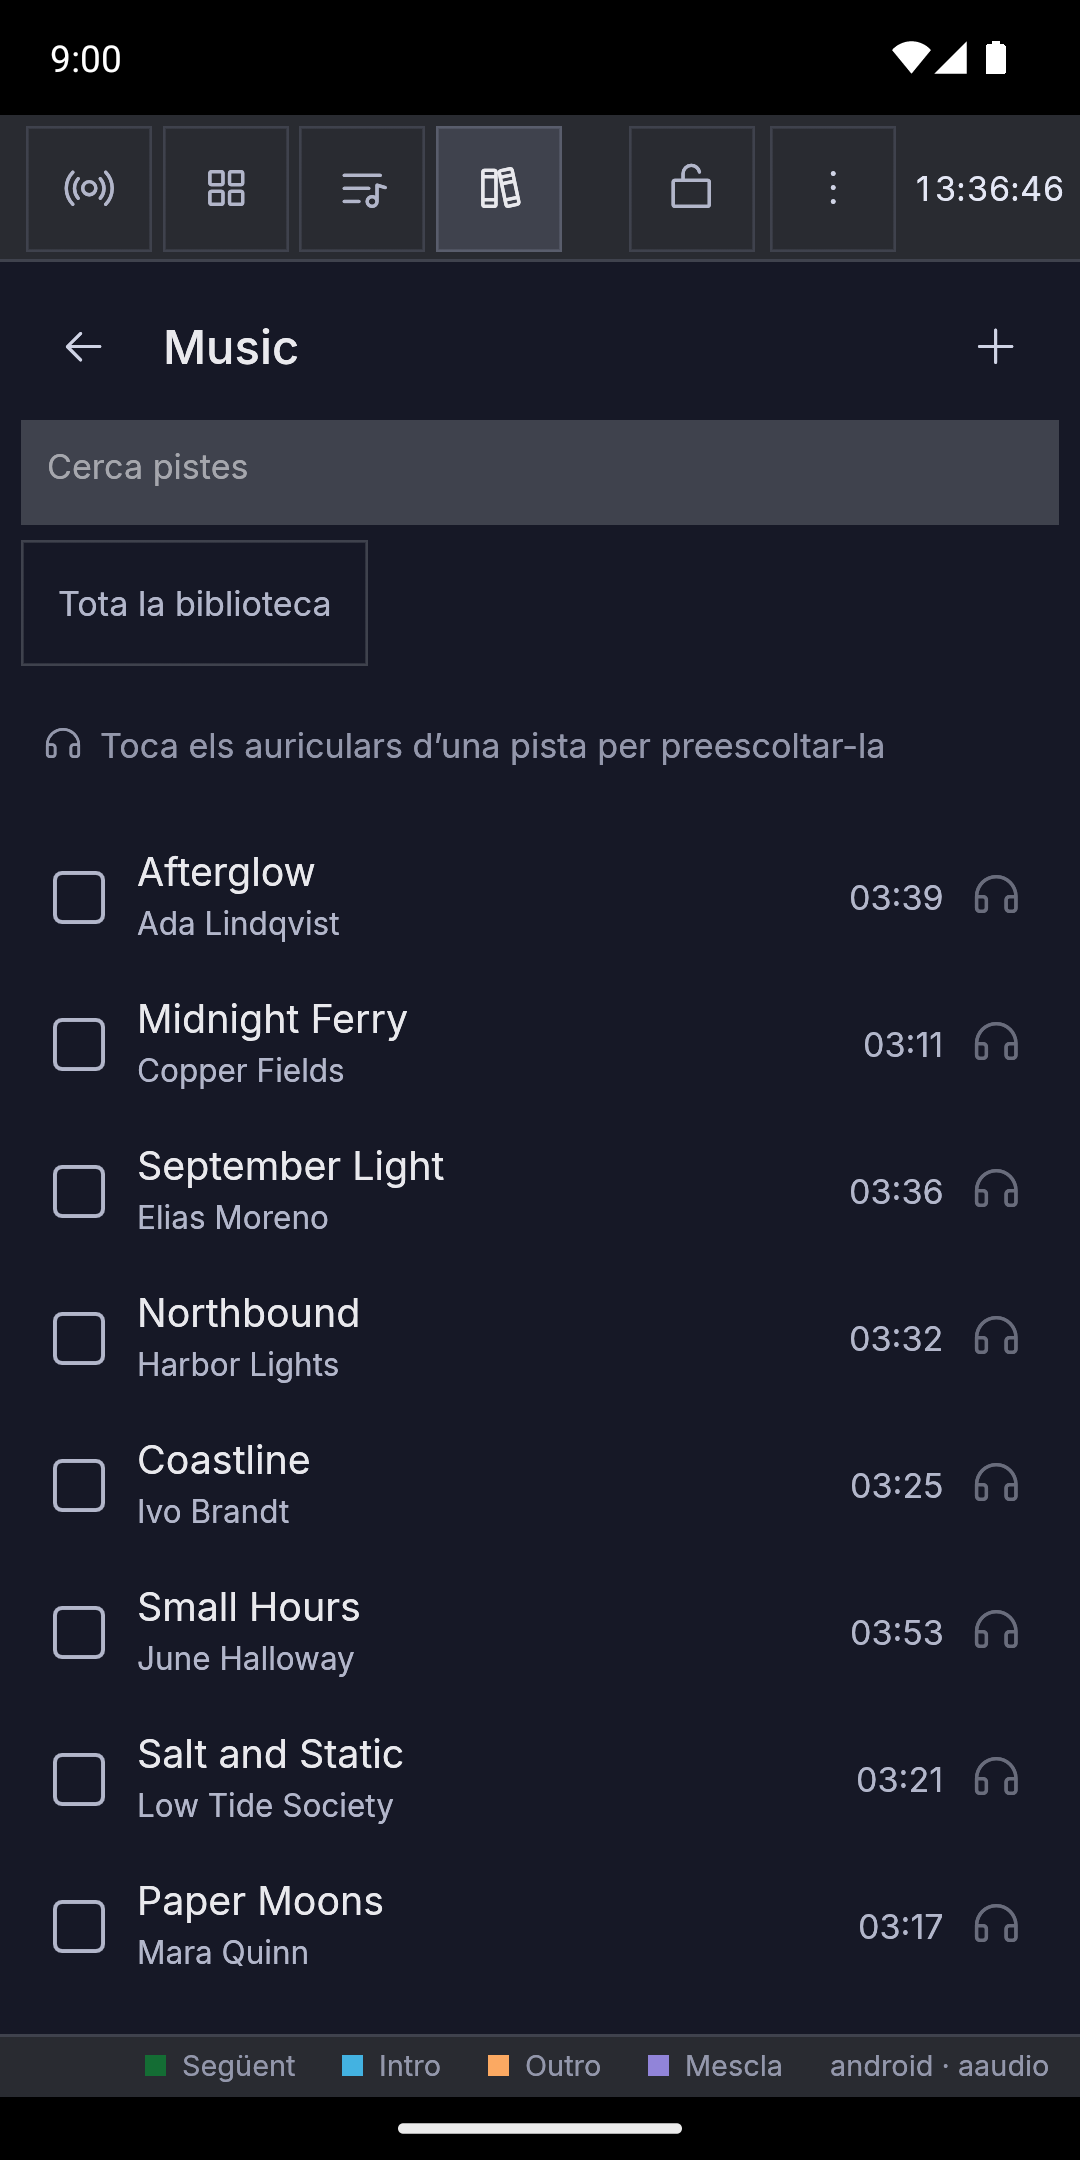
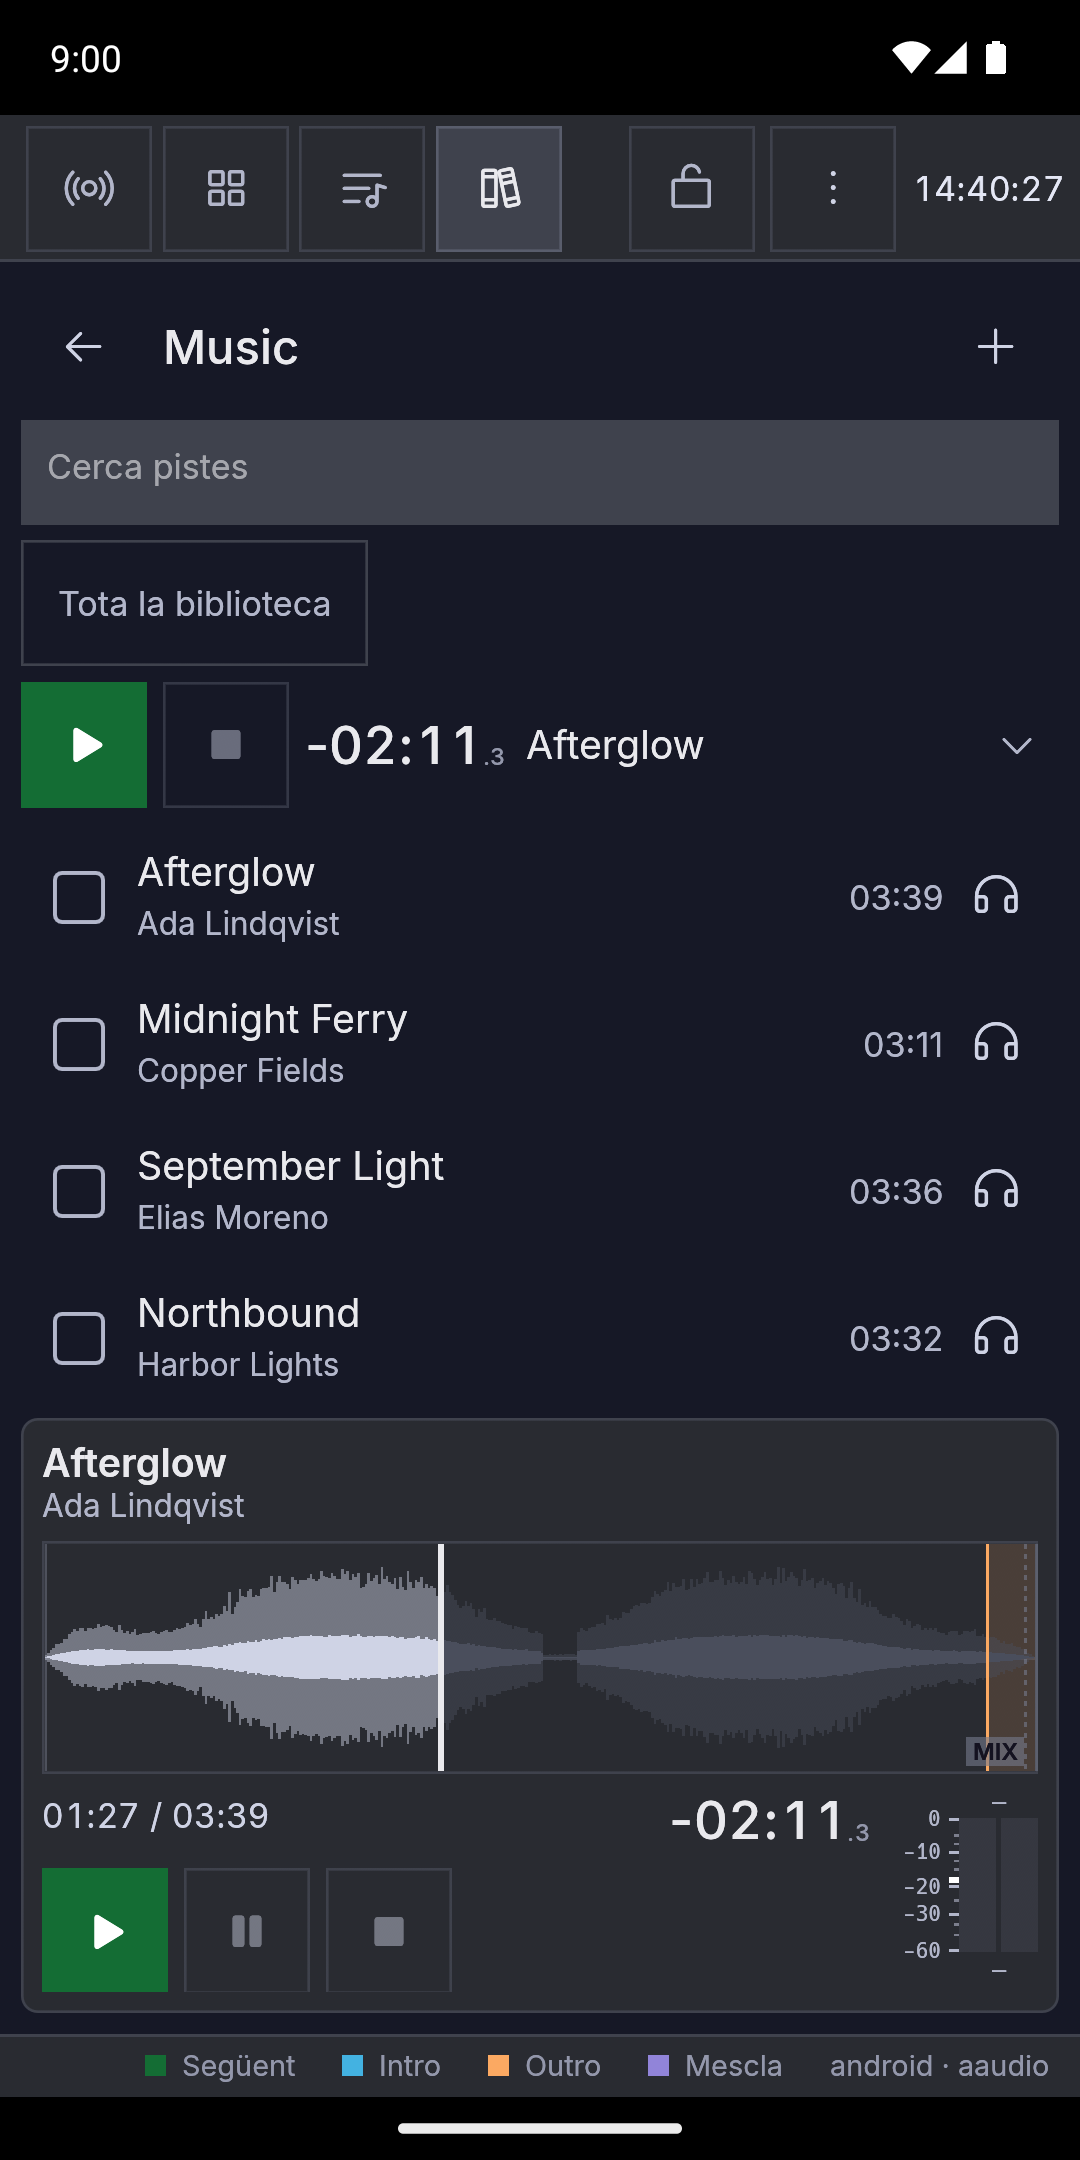
docs(user): the phone's pre-listen card, with its Play screenshot
The Library screenshot now shows the card, stopped on a set start so
nothing in it moves. The screenshot run turns on the library's default
output, as a phone has it (LB46), so the 🎧 picks a track.

diff --git a/docs/technical/ui.md b/docs/technical/ui.md
@@ -36,7 +36,7 @@
 | `ui/shell.rs` | Panic isolation around each frame, and the close check in `Shell::logic` |
 | `ui/exit_guard.rs` | The "Audio is on air" modal: the `ExitIntent`, the list of what is sounding, and the stop commands |
 | `ui/view.rs`, `ui/format.rs` | Pure view model: what to show, how to format it (unit-tested). `mix_active` decides whether a player's MIX marker (on the player and in its CUE window) is lit (violet, `theme::MIX_LINE` through `widgets::mix_marker_color`, the colour of the MIXING badge and apart from the orange outro; dim grey otherwise): Continuous mode and not a bit-perfect player (BR15) |
-| `ui/phone_library.rs`, `ui/music.rs` | The phone's Library tab (track library spec §11.1 and §11.2, plans 6 and 7; see [Mobile](mobile.md)) and its Device music page, the phone's music screen (phone layout spec §9) |
+| `ui/phone_library.rs`, `ui/phone_prelisten.rs`, `ui/music.rs` | The phone's Library tab (track library spec §11.1 to §11.3, plans 6, 7 and 9; see [Mobile](mobile.md)), its pre-listen card (the waveform panel on the library CUE's track, LB54–LB57) and its Device music page, the phone's music screen (phone layout spec §9) |
 | `ui/library/preview.rs` | The library window's preview bar (library spec §8; plan 4): `follow_selection` sends `SelectLibraryCue` when the last selected row changes (`LibraryUi::preview_sent`), and `preview_bar` draws Play, Pause and Stop (`TransportAction`), the big remaining time, the title, artist and category, a column with `widgets::vu_compact` fed by `Telemetry.library_cue`, the waveform through `wave_panel` with `WaveKey::Library` (a click seeks through `SeekLibraryCue`; markers and Loudness… as on a CUE window), and the `elapsed / total` line. It reads the pure `view::library_cue_view`. Without a route the transport is dimmed with the reason as its tooltip and the meter's place takes a line with a link that sets `ViewState::open_outputs` (Settings opens on Audio outputs, scrolled to the Library row). Not drawn on a phone |
 | `ui/cue_window.rs` | One non-modal `egui::Window` per running CUE, drawn from the pure `view::cue_window_view`; its waveform is `wave_panel` with `WaveKey::Cue`; icons through `ui/glyphs.rs` |
 | `ui/widgets.rs`, `ui/glyphs.rs`, `ui/icons.rs`, `ui/theme.rs` | Painted widgets (tiles: `tile` paints `TileStyle::hover_border` and `hover_fill` while the pointer is over it or pressing it (`TileStyle::plain`: `NEUTRAL_800` fill, `NEUTRAL_500` border), and draws a `theme::FOCUS_RING` outline (inside its border) while it has keyboard focus; `tile` shows its label as the tooltip, so a caller with another tooltip uses `tile_without_tooltip` and never adds a second `on_hover_text`; the design's on/off `toggle` that Settings and the loudness controls share, segmented control, tabular times, meter, fader, waveform; `fader` takes an `enabled` flag: a disabled fader is greyed and senses hover only, so it takes no drag, click or wheel. The curve is `fp_model::volume` (`dB = 192 × (travel^(1/8) − 1)`; `travel_to_db`, `db_to_travel`, `gain_from_fader`, `fader_from_gain`), shared by the fader, MIDI and the remote API. A drag moves the travel by the pointer's movement since the previous frame (kept in egui temp memory from the press origin, so it never jumps to the pointer and a click alone sends nothing); Ctrl or Shift scale drag and wheel by `FADER_FINE` (0.1); the wheel is one `FADER_WHEEL_STEP` (0.025 of travel, 0.6 dB near 0 dB) per notch: `Line` deltas count as notches, `Point` deltas (trackpads) as notches of `line_scroll_speed` points, and the remainder is kept (`FaderWheel`, egui temp memory); a sideways delta counts only with Shift held (some systems send Shift + wheel that way), and while the fader is hovered it clears `smooth_scroll_delta`, so the players' row never scrolls under it. A drag that goes on with no stored state (through a lock) starts from the fader's own position, and the state is dropped when the drag ends or the fader locks. While the knob is held the fader draws the drag's travel, not the model's: the hand on the fader wins over a MIDI or remote change, which the next drag starts from. A double click sends travel 1.0 only on the knob (`FADER_KNOB_SLOP`, 6 px above or below), so two quick taps elsewhere on the track change nothing. The scale marks `FADER_MARKS_DB` (0, −2, −4, −6, −8, −10, −12, −15, −20, −25, −30, −40, −50, −∞) are drawn as a notch across the track (`FADER_NOTCH_REACH` each side) with the level on its right, away from the meter's own scale (the track sits at the fader's left, next to the meter; `FADER_WIDTH` is 30 px), at the travels `fader_mark_travels` computes through the curve, dimmed when locked), drawn icons, the Nocturne theme. `ui/glyphs.rs` maps each transport action (`TransportAction`: play, next, pause, stop, fade stop, stop after, restart, previous, cue) to a Phosphor glyph or a drawn icon; the player, the cartwall and the playlist menu draw their transport icons only through it (`tests/it/glyphs.rs` guards that), and the CUE window too. The meter's geometry is the pure `meter_layout` (a `Ruler` per side, the `ticks`, the label lines, the bars and the readouts), unit-tested; its width (`meter_width`) follows the scale's widest label, and the player's meter column follows it. Nothing is painted over the bars: `tests/it/meter_view.rs` reads the painted shapes and accepts in a bar only filled rects in the bar or zone colours |

diff --git a/docs/user/android.md b/docs/user/android.md
@@ -45,7 +45,7 @@ the status bar at the bottom shows only when it has something to say.
 <img src="../images/android/2-carts.png" width="180" alt="Carts on a phone: the General page turned upright, two carts per row">
 <img src="../images/android/3-playlists.png" width="180" alt="Playlists on a phone: the P1 to P4 chips, the playlist tabs, the track list and the player's card at the bottom">
 <img src="../images/android/4-music.png" width="180" alt="Device music on a phone: the Demo folder with three songs ticked and the bar to add them to P1's Morning playlist">
-<img src="../images/android/5-library.png" width="180" alt="The Library tab on a phone: the Music category's tracks, each with a box to tick and headphones to pre-listen, under the search and Whole library">
+<img src="../images/android/5-library.png" width="180" alt="The Library tab on a phone: the Music category's tracks, each with a box to tick and headphones to pre-listen, and under them the pre-listen card with the track's waveform and markers">
 </p>
 
 - *Live:* every player as a card, and the cartwall. Each card has, top
@@ -167,6 +167,27 @@ that track. A slim strip over the list shows the title, the time left,
 hint otherwise: it always keeps its place, so the rows do not move when a
 pre-listen starts or stops. The 🎧
 is dimmed when the file is missing or cannot be played.
+
+**The pre-listen card.** Tap the strip (away from its buttons) to open
+the card under the list, with the track's waveform as on a player's card
+in Playlists; the arrow at the strip's right shows whether it is open.
+Tap the strip again, or press Back, to close it; the pre-listen goes on.
+On the card:
+
+- a tap on the waveform jumps there, or, while stopped, sets where
+  **Play** starts;
+- a long press sets a marker at that point (cue in, intro end, outro
+  start, MIX, cue out) or removes one you set. Markers belong to the
+  track, so the change shows in every playlist and on the desktop;
+- a pinch zooms, a drag moves a zoomed view and **Full view** shows the
+  whole track again;
+- under the waveform are the times, **Play**, **Pause**, **Stop** and the
+  meter.
+
+The list stays above the card (on the left with the phone on its side),
+so the 🎧 of another row still switches the card to that track. The
+padlock stops the waveform's jumps and marker changes, as on the
+players.
 The preview stops when its track leaves the library and when you leave
 the Library tab (for another tab, or by Back); on the categories or on
 Device music it goes on, but its strip shows only on the track list.

diff --git a/docs/technical/mobile.md b/docs/technical/mobile.md
@@ -227,7 +227,15 @@ stops or changes playout.
   disabled when `prelisten_blocked` names a reason (no Cue output, a
   missing or unreadable file). The strip over the list
   (`preview_strip`) shows only on the list page and always takes its
-  height (LB49: a dim hint while stopped, so the rows never move). Device
+  height (LB49: a dim hint while stopped, so the rows never move). While
+  the library CUE has a track a tap on the strip toggles
+  `PhoneLibraryView::card_open` (LB54, plan 9), and `tracks_page` lays the
+  rows out above the pre-listen card (`phone_prelisten::card`, at most
+  `CARD_SHARE` of the room; sideways the right half), with the ticks' bar
+  under both (LB55). The card reuses `wave_panel::show` with
+  `WaveKey::Library` (seek as `SeekLibraryCue`, long-press markers, pinch
+  zoom, the padlock), so the desktop preview bar and the card share their
+  zoom; `PhoneLibraryView::back` closes an open card first (LB57). Device
   music as a page of the tab has a header (`device_header`, LB50) whose
   back leaves it at once, unless a pick is answered; opening a list from
   the selector clears the search text (LB51). Plan 7's device folders
